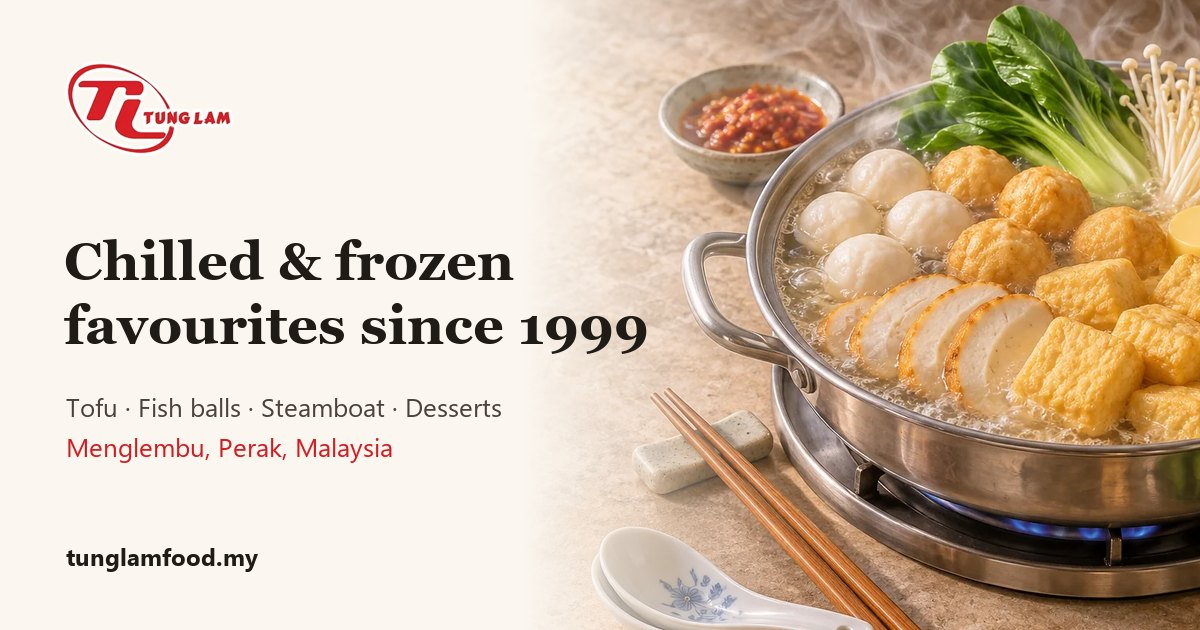
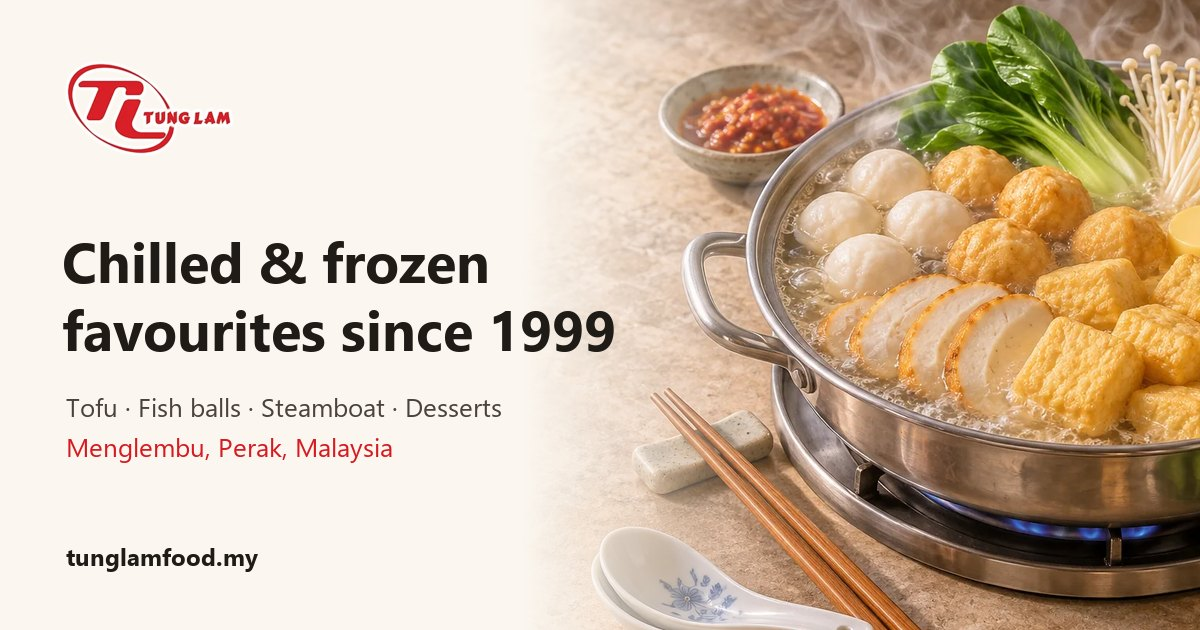
Switch typography to Outfit (headings) + Inter (body)
Replaces Fraunces/Plus Jakarta Sans with a cleaner modern sans pairing;
share image updated to match.

Changed region(s): [[0.0308, 0.4825, 0.555, 0.573], [0.0308, 0.3619, 0.4317, 0.4524]]

diff --git a/src/app/[lang]/layout.tsx b/src/app/[lang]/layout.tsx
@@ -1,6 +1,6 @@
 import type { Metadata, Viewport } from "next";
 import { notFound } from "next/navigation";
-import { Fraunces, Plus_Jakarta_Sans } from "next/font/google";
+import { Inter, Outfit } from "next/font/google";
 import { Analytics } from "@vercel/analytics/next";
 import { SpeedInsights } from "@vercel/speed-insights/next";
 import "../globals.css";
@@ -14,8 +14,8 @@ import { SiteFooter } from "@/components/layout/site-footer";
 import { WhatsAppFab } from "@/components/layout/whatsapp-fab";
 import { getCatalog } from "@/lib/data";
 
-const display = Fraunces({ subsets: ["latin"], variable: "--font-display-face", display: "swap", axes: ["opsz", "SOFT"] });
-const body = Plus_Jakarta_Sans({ subsets: ["latin"], variable: "--font-body", display: "swap" });
+const display = Outfit({ subsets: ["latin"], variable: "--font-display-face", display: "swap" });
+const body = Inter({ subsets: ["latin"], variable: "--font-body", display: "swap" });
 
 export function generateStaticParams() {
   return LOCALES.map((lang) => ({ lang }));

diff --git a/src/app/globals.css b/src/app/globals.css
@@ -26,7 +26,7 @@
   --color-leaf-soft: #e6f1e3;
 
   --font-sans: var(--font-body), "Segoe UI", "PingFang SC", "Microsoft YaHei", "Noto Sans SC", system-ui, sans-serif;
-  --font-display: var(--font-display-face), Georgia, "Songti SC", "Noto Serif SC", serif;
+  --font-display: var(--font-display-face), "Segoe UI", "PingFang SC", "Microsoft YaHei", "Noto Sans SC", system-ui, sans-serif;
 
   --radius-card: 1.25rem;
   --shadow-card: 0 1px 2px rgb(31 27 23 / 0.04), 0 8px 24px -12px rgb(31 27 23 / 0.18);
